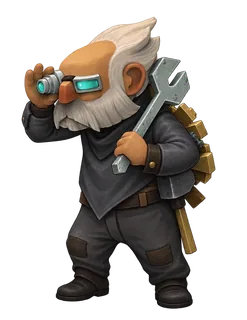
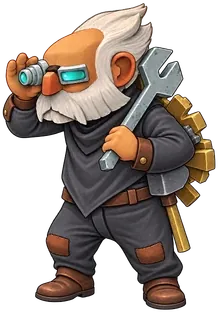
Make the still pictures the runtime rest frames
The board drew the old part sheets first and then changed to the
runtime art. During the change the figures, the facing and the sizes
changed. The Guide, the title and the promotion picker showed the old
still pictures.

- tools/build-piece-stills.mjs cuts each rest frame of the character
  runtime (all pieces and king designs, both armies) to its painted
  pixels. It writes public/ui/pieces and piece-stills.mjs (pivot and
  size in bank px).
- With the character runtime on, the scene draws a figure at rest from
  its still picture until the runtime has that frame, with the same
  pivot, scale and soft pool. The first frame waits for the still
  pictures of the figures on the board.
- piece-stills.test.mjs fails when a rest frame changes and the tool
  did not run again.

diff --git a/src/render/scene-load.test.ts b/src/render/scene-load.test.ts
@@ -2,9 +2,13 @@ import { afterEach, expect, it, vi } from 'vitest';
 import { createScene, type PaintedScene } from './painted/scene.mjs';
 import * as pieces from '../rules/engine';
 import { fromFen } from '../rules/setup';
+import { PIECE_STILLS } from './painted/piece-stills.mjs';
 
 const isClip = (src: string) => /\/(tap|slam)(?:-[\w-]+)?\.webp/.test(src);
 let scene: PaintedScene;
+// The still pictures match the real package's rest frames, not the made-up banks of these tests: they fail to load,
+// so each test sees the runtime bodies alone. The still test turns them on.
+let stillsLoad = false;
 
 function board(motion: boolean, characterRuntime = false, largeRuntime = false, refreshMs = 16) {
   vi.useFakeTimers();
@@ -18,6 +22,7 @@ function board(motion: boolean, characterRuntime = false, largeRuntime = false, 
     private url = '';
     set src(src: string) {
       this.url = src; images.push(this);
+      if (src.includes('/ui/pieces/') && !stillsLoad) { void Promise.resolve().then(() => this.finish(true)); return; }
       if (!isClip(src) && !src.includes('runtime-deferred')) void Promise.resolve().then(() => this.finish());
     }
     get src() { return this.url; }
@@ -44,10 +49,21 @@ function board(motion: boolean, characterRuntime = false, largeRuntime = false, 
   return { images, draws, drawArgs, clouds, rotations, decodeBoard, clips: () => images.filter(image => isClip(image.src)) };
 }
 
-afterEach(() => { scene?.dispose(); vi.useRealTimers(); vi.unstubAllGlobals(); });
+afterEach(() => { scene?.dispose(); vi.useRealTimers(); vi.unstubAllGlobals(); stillsLoad = false; });
 
 // The footprint table follows the manifest; the manifest is what starts the downloads.
 const manifestFetches=(fetcher:{mock:{calls:[string][]}})=>fetcher.mock.calls.filter(([url])=>String(url).endsWith('manifest.json')).length;
+it('draws a figure at rest from its still picture, at its rest frame\'s pivot and size, until the runtime loads', async () => {
+ stillsLoad = true;
+ vi.stubGlobal('fetch',vi.fn(()=>new Promise(()=>{})));
+ const b=board(true,true);void scene.load();b.decodeBoard();await vi.advanceTimersByTimeAsync(48);
+ const knight=PIECE_STILLS.knight.white,drawn=b.drawArgs.filter(d=>d.src.endsWith('/ui/pieces/knight-w.webp'));
+ expect(drawn.length).toBeGreaterThan(0);
+ expect(drawn.at(-1)!.args).toEqual([-knight.pivot[0],-knight.pivot[1],knight.size[0],knight.size[1]]);
+ expect(b.draws.some(src=>src.endsWith('/ui/pieces/king-frost-w.webp'))).toBe(true);
+ expect(scene.characterFrames).toHaveLength(0);
+});
+
 it('prefetches only the selected capture and its full king turn route', async () => {
  const base={character:'king-frost',army:'white',canvasSize:[32,32],pivot:[16,28],bodyHeightPx:20,registrationHeightPx:20};
  const idle={...base,id:'idle',kind:'idle',facing:'SE',durationMs:120,frames:[{url:'runtime-rest.png',timeMs:0}]};

diff --git a/docs/specs/ship-character-runtime/issues/02-still-pictures-match.md b/docs/specs/ship-character-runtime/issues/02-still-pictures-match.md
@@ -1,0 +1,28 @@
+# The still pictures are the runtime rest frames
+
+Status: resolved
+Type: task
+
+## Problem
+
+The board drew the old part sheets first. One to four seconds later it changed to the runtime art. During that change
+the figures changed: the Paladin, the Archer, the facing of each army and the sizes. The Guide, the title and the
+promotion picker showed old still pictures (`public/ui/pieces`).
+
+## Plan and checks
+
+- `tools/build-piece-stills.mjs` cuts the rest frame of each character and army (pieces and king designs) from
+  `public/character-runtime` to its painted pixels. It writes `public/ui/pieces/<character>-<w|b>.webp` and
+  `src/render/painted/piece-stills.mjs` (pivot and size in bank px).
+- With the character runtime on, the scene draws a figure at rest from its still picture until the runtime has that
+  frame. The pivot, the scale (`bankScale`, so `HEIGHT` sets it) and the soft pool are the same as the rest frame's.
+- `piece-stills.test.mjs` fails when a rest frame changes and the tool did not run again.
+- Check in Chromium and WebKit: the full board before and after the change to the runtime art.
+
+## Results
+
+- Full board, 390 px phone, runtime manifest held back until the first frame was drawn: on each square of ranks 1, 2,
+  7 and 8, at most 0.12 % of the pixels change by more than 48 levels, except e8 and e7 (3 to 4 %). There the Shadow
+  King's smoke and hands move between the two pictures; the figure is the same.
+- Title lineup, Guide cards and promotion picker show the new pictures in both engines.
+- Not checked: a slow link (the still pictures add a request for each kind on the board before the first frame).
